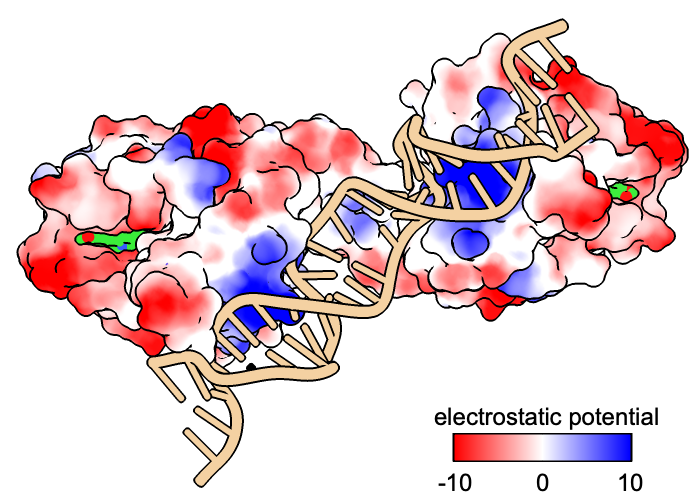
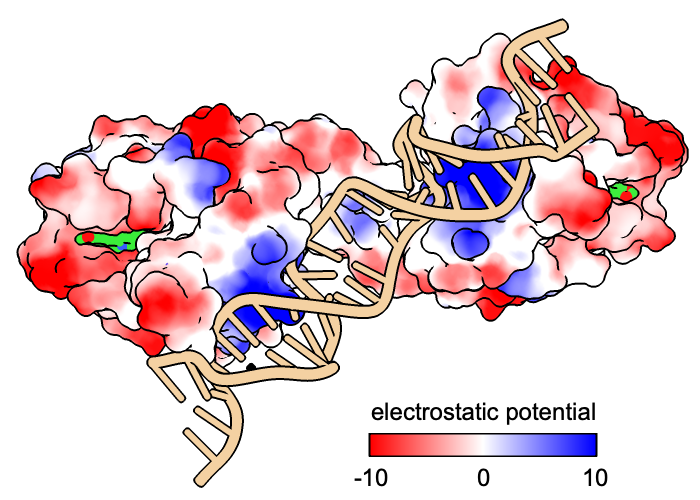
improved color key size/placement in example image; mentioned coulombic units

Changed region(s): [[0.51, 0.81, 0.96, 0.99]]

diff --git a/docs/user/tutorials/binding-sites.html b/docs/user/tutorials/binding-sites.html
@@ -811,7 +811,7 @@ The following shows surfaces for the protein chains
 and colors them by Coulombic ESP calculated on the fly:
 </p>
 <blockquote>
-<i>Command</i>:&nbsp;<b><a href="cxcmd:coulombic protein range -10,10">coulombic protein range -10,10</a></b>
+<i>Command</i>:&nbsp;<b><a href="cxcmd:coulombic protein">coulombic protein</a></b>
 </blockquote>
 <p>
 The default color scheme is red for negative potential, white at zero,
@@ -906,7 +906,7 @@ sizes and positions will need to be adjusted to fit the image layout.
 A color key can be added with the 
 <b>key</b> option of the coloring command (in this case, <b>coulombic</b>):
 <blockquote>
-<i>Command</i>:&nbsp;<b><a href="cxcmd:coulombic protein range -10,10 key true">coulombic protein range -10,10 key true</a></b>
+<i>Command</i>:&nbsp;<b><a href="cxcmd:coulombic protein key true">coulombic protein key true</a></b>
 </blockquote>
 <p>
 This draws an initial color key, but also opens the
@@ -932,15 +932,16 @@ of the <a href="../tools/toolbar.html"><b>Toolbar</b></a>, click the icon
 and then use the right mouse button or trackpad + <b>Alt</b> on Windows,
 trackpad + <img src="../icon-clover.png" width="12px"> on Mac to drag the label.
 </p><p>
-Although it is usually most convenient to set color-key colors and values
+Although it is usually most convenient 
+to position the key and label interactively as described above, 
+and to set color-key colors and values
 by using the <b>key</b> option of the coloring command, 
-and to position the key and label interactively as described above, 
 these could be done explicitly with commands instead. For example:
 </p>
 <blockquote>
-<i>Command</i>:&nbsp;<b><a href="cxcmd:key red:-10 white:0 blue:10 pos .65,.08 size 0.25,0.05">key red:-10 white:0 blue:10 pos .65,.08 size 0.25,0.05</a></b>
+<i>Command</i>:&nbsp;<b><a href="cxcmd:2dlab text 'electrostatic potential' xpos .53 ypos .15">2dlab text 'electrostatic potential' xpos .53 ypos .15</a></b>
 <br>
-<i>Command</i>:&nbsp;<b><a href="cxcmd:2dlab text 'electrostatic potential' xpos .62 ypos .14">2dlab text 'electrostatic potential' xpos .62 ypos .14</a></b>
+<i>Command</i>:&nbsp;<b><a href="cxcmd:key red:-10 white:0 blue:10 pos .53,.09 size .32,.04">key red:-10 white:0 blue:10 pos .51,.09 size .32,.04</a></b>
 </blockquote>
 <p>
 If you now have multiple copies of the label, you can hide or delete the extras.

diff --git a/docs/user/commands/coulombic.html b/docs/user/commands/coulombic.html
@@ -108,6 +108,8 @@ and coordinates according to Coulomb's law:
 q are the atomic partial charges,
 d are the distances from the atoms, and
 &epsilon; is the dielectric, representing screening by the medium.
+The resulting potential is in units of kcal/(mol&middot;<i>e</i>) at 298 K.
+</p><p>
 A distance-dependent dielectric is sometimes used to approximate screening
 by implicit solvent. By default,
 <b>distDep true</b> and <b>dielectric 4.0</b> are used:
@@ -275,5 +277,5 @@ the atoms in every direction (default <b>5.0</b> &Aring;).
 
 <hr>
 <address>UCSF Resource for Biocomputing, Visualization, and Informatics / 
-April 2021</address>
+July 2021</address>
 </body></html>
